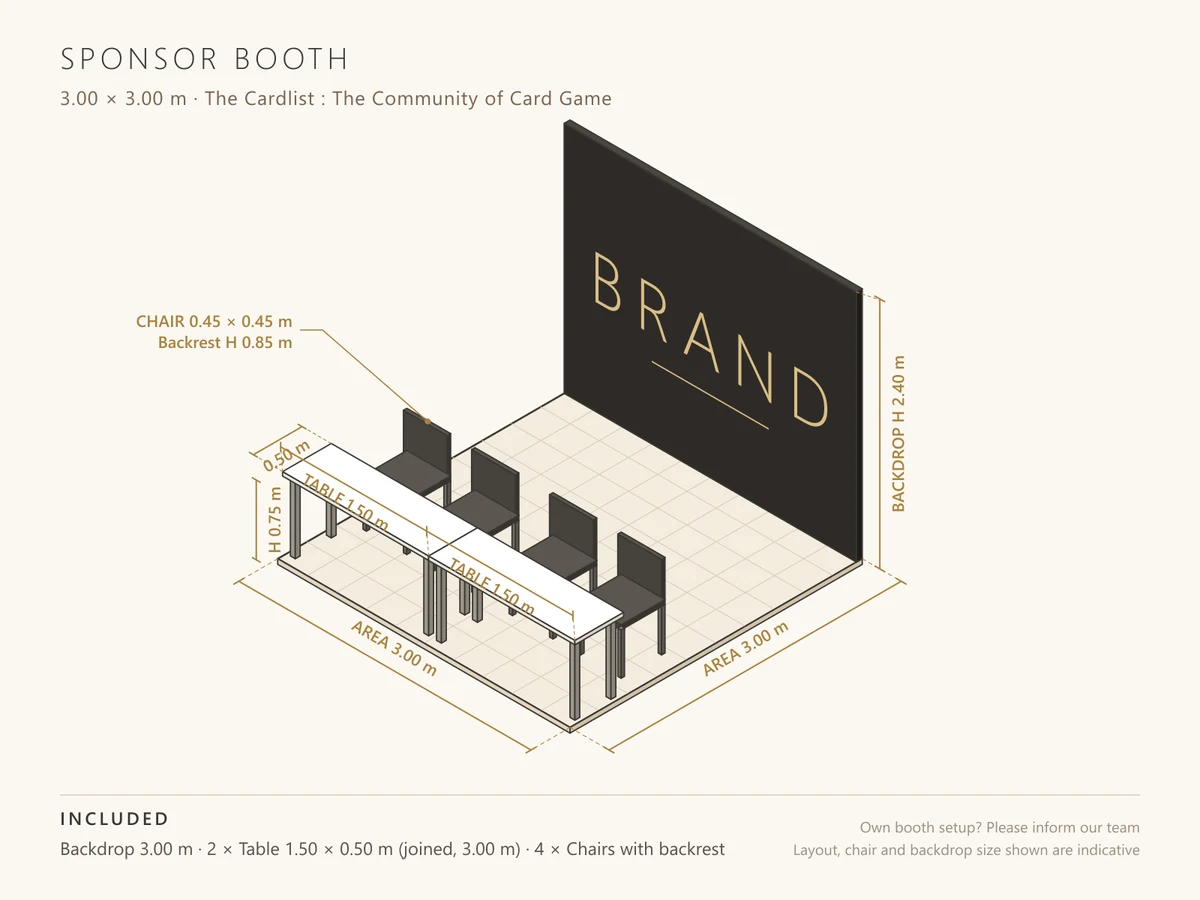
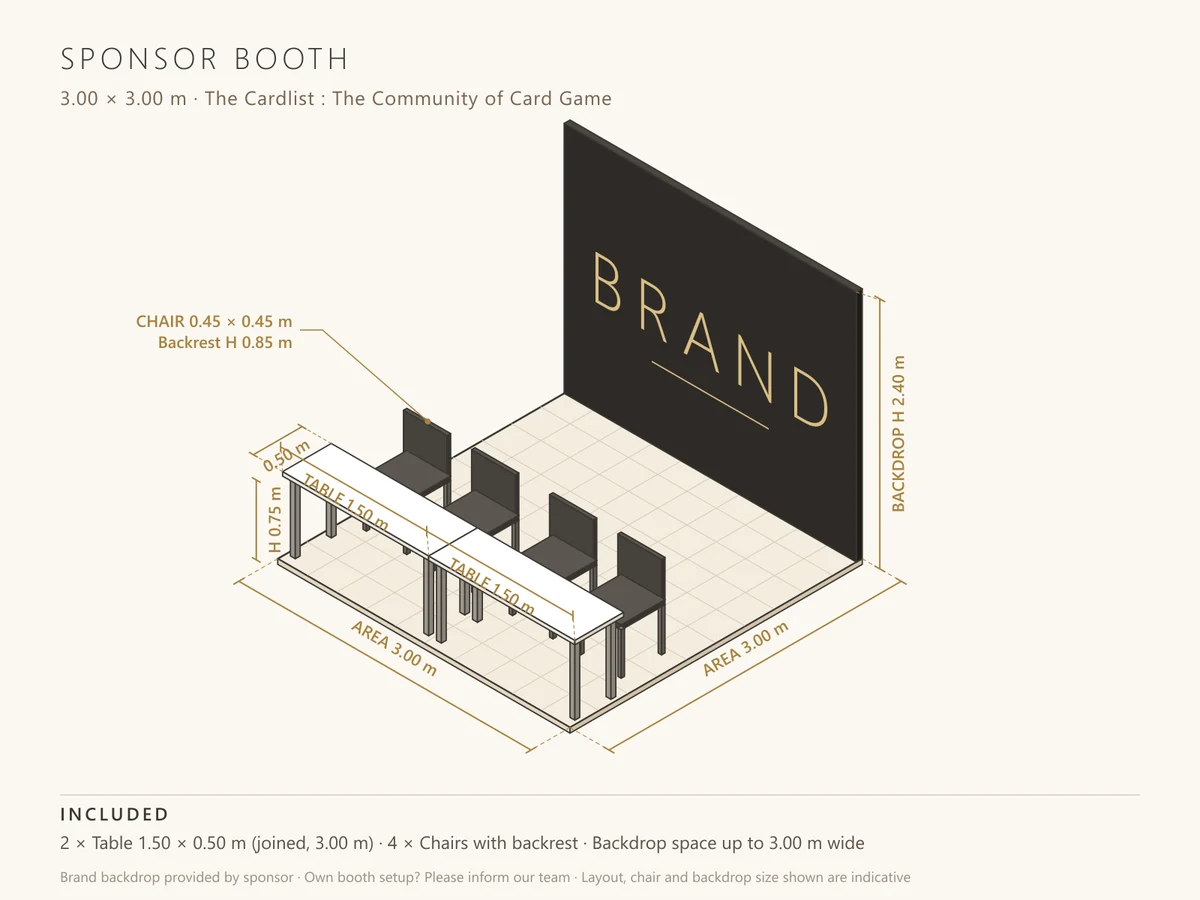
Booth map: keep the detail card fully on screen; sponsor drawing notes
- Detail card measures its real height, opens above the table when there is
  room, otherwise below, and is clamped inside the viewport (above the
  bottom nav) — the sponsor card was running off the bottom of the screen
- Sponsor drawing: backdrop space up to 3 m, brand backdrop provided by sponsor

Changed region(s): [[0.0617, 0.9022, 0.9558, 0.9956]]

diff --git a/app/booth/page.tsx b/app/booth/page.tsx
@@ -1,6 +1,6 @@
 "use client";
 import { goLogin } from "@/lib/auth-next";
-import { useCallback, useEffect, useMemo, useRef, useState } from "react";
+import { useCallback, useEffect, useLayoutEffect, useMemo, useRef, useState } from "react";
 import { useModal } from "@/lib/use-modal";
 import BrandText from "@/components/BrandText";
 import Link from "next/link";
@@ -699,23 +699,42 @@ function vendorError(v: VendorForm): string | null {
 
 // การ์ดรายละเอียดโต๊ะ: ชี้เมาส์ / แตะ / โฟกัสที่โต๊ะบนผัง — แสดงเหนือโต๊ะ (ถ้าที่ด้านบนไม่พอแสดงด้านล่าง)
 const CARD_W = 248;
+// กล่องการ์ดลอย: วัดความสูงจริงก่อนแสดง แล้ววางเหนือโต๊ะถ้าพื้นที่พอ ไม่พอวางใต้โต๊ะ
+// และไม่ให้ล้นขอบจอ (เผื่อแถบเมนูด้านล่าง 72px)
+function FloatingCard({ rect, children }: { rect: DOMRect; children: React.ReactNode }) {
+  const ref = useRef<HTMLDivElement>(null);
+  const [pos, setPos] = useState<{ left: number; top: number } | null>(null);
+  useLayoutEffect(() => {
+    const h = ref.current?.offsetHeight ?? 0;
+    const vw = window.innerWidth, vh = window.innerHeight;
+    const left = Math.min(Math.max(rect.left + rect.width / 2 - CARD_W / 2, 8), vw - CARD_W - 8);
+    const aboveTop = rect.top - 8 - h;
+    let top = aboveTop >= 8 ? aboveTop : rect.bottom + 8;
+    if (top + h > vh - 72) top = Math.max(8, vh - 72 - h);
+    setPos({ left, top });
+  }, [rect]);
+  return (
+    <div
+      ref={ref}
+      role="tooltip"
+      className="fixed z-[60] pointer-events-none bg-white border border-zinc-200 rounded-2xl shadow-lg p-3"
+      style={{ left: pos?.left ?? 0, top: pos?.top ?? 0, width: CARD_W, visibility: pos ? "visible" : "hidden" }}
+    >
+      {children}
+    </div>
+  );
+}
 function TableCard({ id, rect, p, days, status, shop }: {
   id: string; rect: DOMRect; p: TypePricing; days: number;
   status: "free" | "selected" | "booked"; shop: string | null;
 }) {
-  const left = Math.min(Math.max(rect.left + rect.width / 2 - CARD_W / 2, 8), window.innerWidth - CARD_W - 8);
-  const above = rect.top > (p.photo ? 400 : 220);
   const chip = status === "selected"
     ? { text: "ที่คุณเลือก", cls: "bg-zinc-900 text-white" }
     : status === "free"
       ? { text: "ว่าง", cls: "bg-green-50 text-green-700" }
       : { text: "ไม่ว่าง", cls: "bg-zinc-100 text-zinc-600" };
   return (
-    <div
-      role="tooltip"
-      className="fixed z-[60] pointer-events-none bg-white border border-zinc-200 rounded-2xl shadow-lg p-3"
-      style={{ left, top: above ? rect.top - 8 : rect.bottom + 8, width: CARD_W, transform: above ? "translateY(-100%)" : undefined }}
-    >
+    <FloatingCard rect={rect}>
       {p.photo && (
         // eslint-disable-next-line @next/next/no-img-element
         <img src={p.photo} alt={`ตัวอย่างโต๊ะ ${p.label}`} className="w-full aspect-[4/3] object-contain rounded-xl mb-2 bg-[#FBF8F2]" />
@@ -738,20 +757,14 @@ function TableCard({ id, rect, p, days, status, shop }: {
         <span className="text-sm font-semibold text-zinc-900">{baht(p.full)}</span>
       </div>
       <p className="text-[11px] text-zinc-500 text-right">บางวัน {baht(p.per_day)} / วัน</p>
-    </div>
+    </FloatingCard>
   );
 }
 
 // การ์ดพื้นที่พิเศษ (บูธ Sponsor): ภาพ ขนาด อุปกรณ์ หมายเหตุ — ไม่ได้จองผ่านเว็บ จึงให้ติดต่อทีมงานแทนราคา
 function ZoneCard({ rect, z }: { rect: DOMRect; z: BoothZone }) {
-  const left = Math.min(Math.max(rect.left + rect.width / 2 - CARD_W / 2, 8), window.innerWidth - CARD_W - 8);
-  const above = rect.top > (z.photo ? 420 : 240);
   return (
-    <div
-      role="tooltip"
-      className="fixed z-[60] pointer-events-none bg-white border border-zinc-200 rounded-2xl shadow-lg p-3"
-      style={{ left, top: above ? rect.top - 8 : rect.bottom + 8, width: CARD_W, transform: above ? "translateY(-100%)" : undefined }}
-    >
+    <FloatingCard rect={rect}>
       {z.photo && (
         // eslint-disable-next-line @next/next/no-img-element
         <img src={z.photo} alt={`ตัวอย่าง${z.label}`} className="w-full aspect-[4/3] object-contain rounded-xl mb-2 bg-[#FBF8F2]" />
@@ -774,6 +787,6 @@ function ZoneCard({ rect, z }: { rect: DOMRect; z: BoothZone }) {
         <span className="text-sm font-semibold text-zinc-900">ติดต่อ <span className="font-cardlist font-normal tracking-wide">THE CARDLIST</span></span>
       </div>
       <p className="text-[11px] text-zinc-500 text-right">ทาง Inbox เพจ The Cardlist</p>
-    </div>
+    </FloatingCard>
   );
 }
